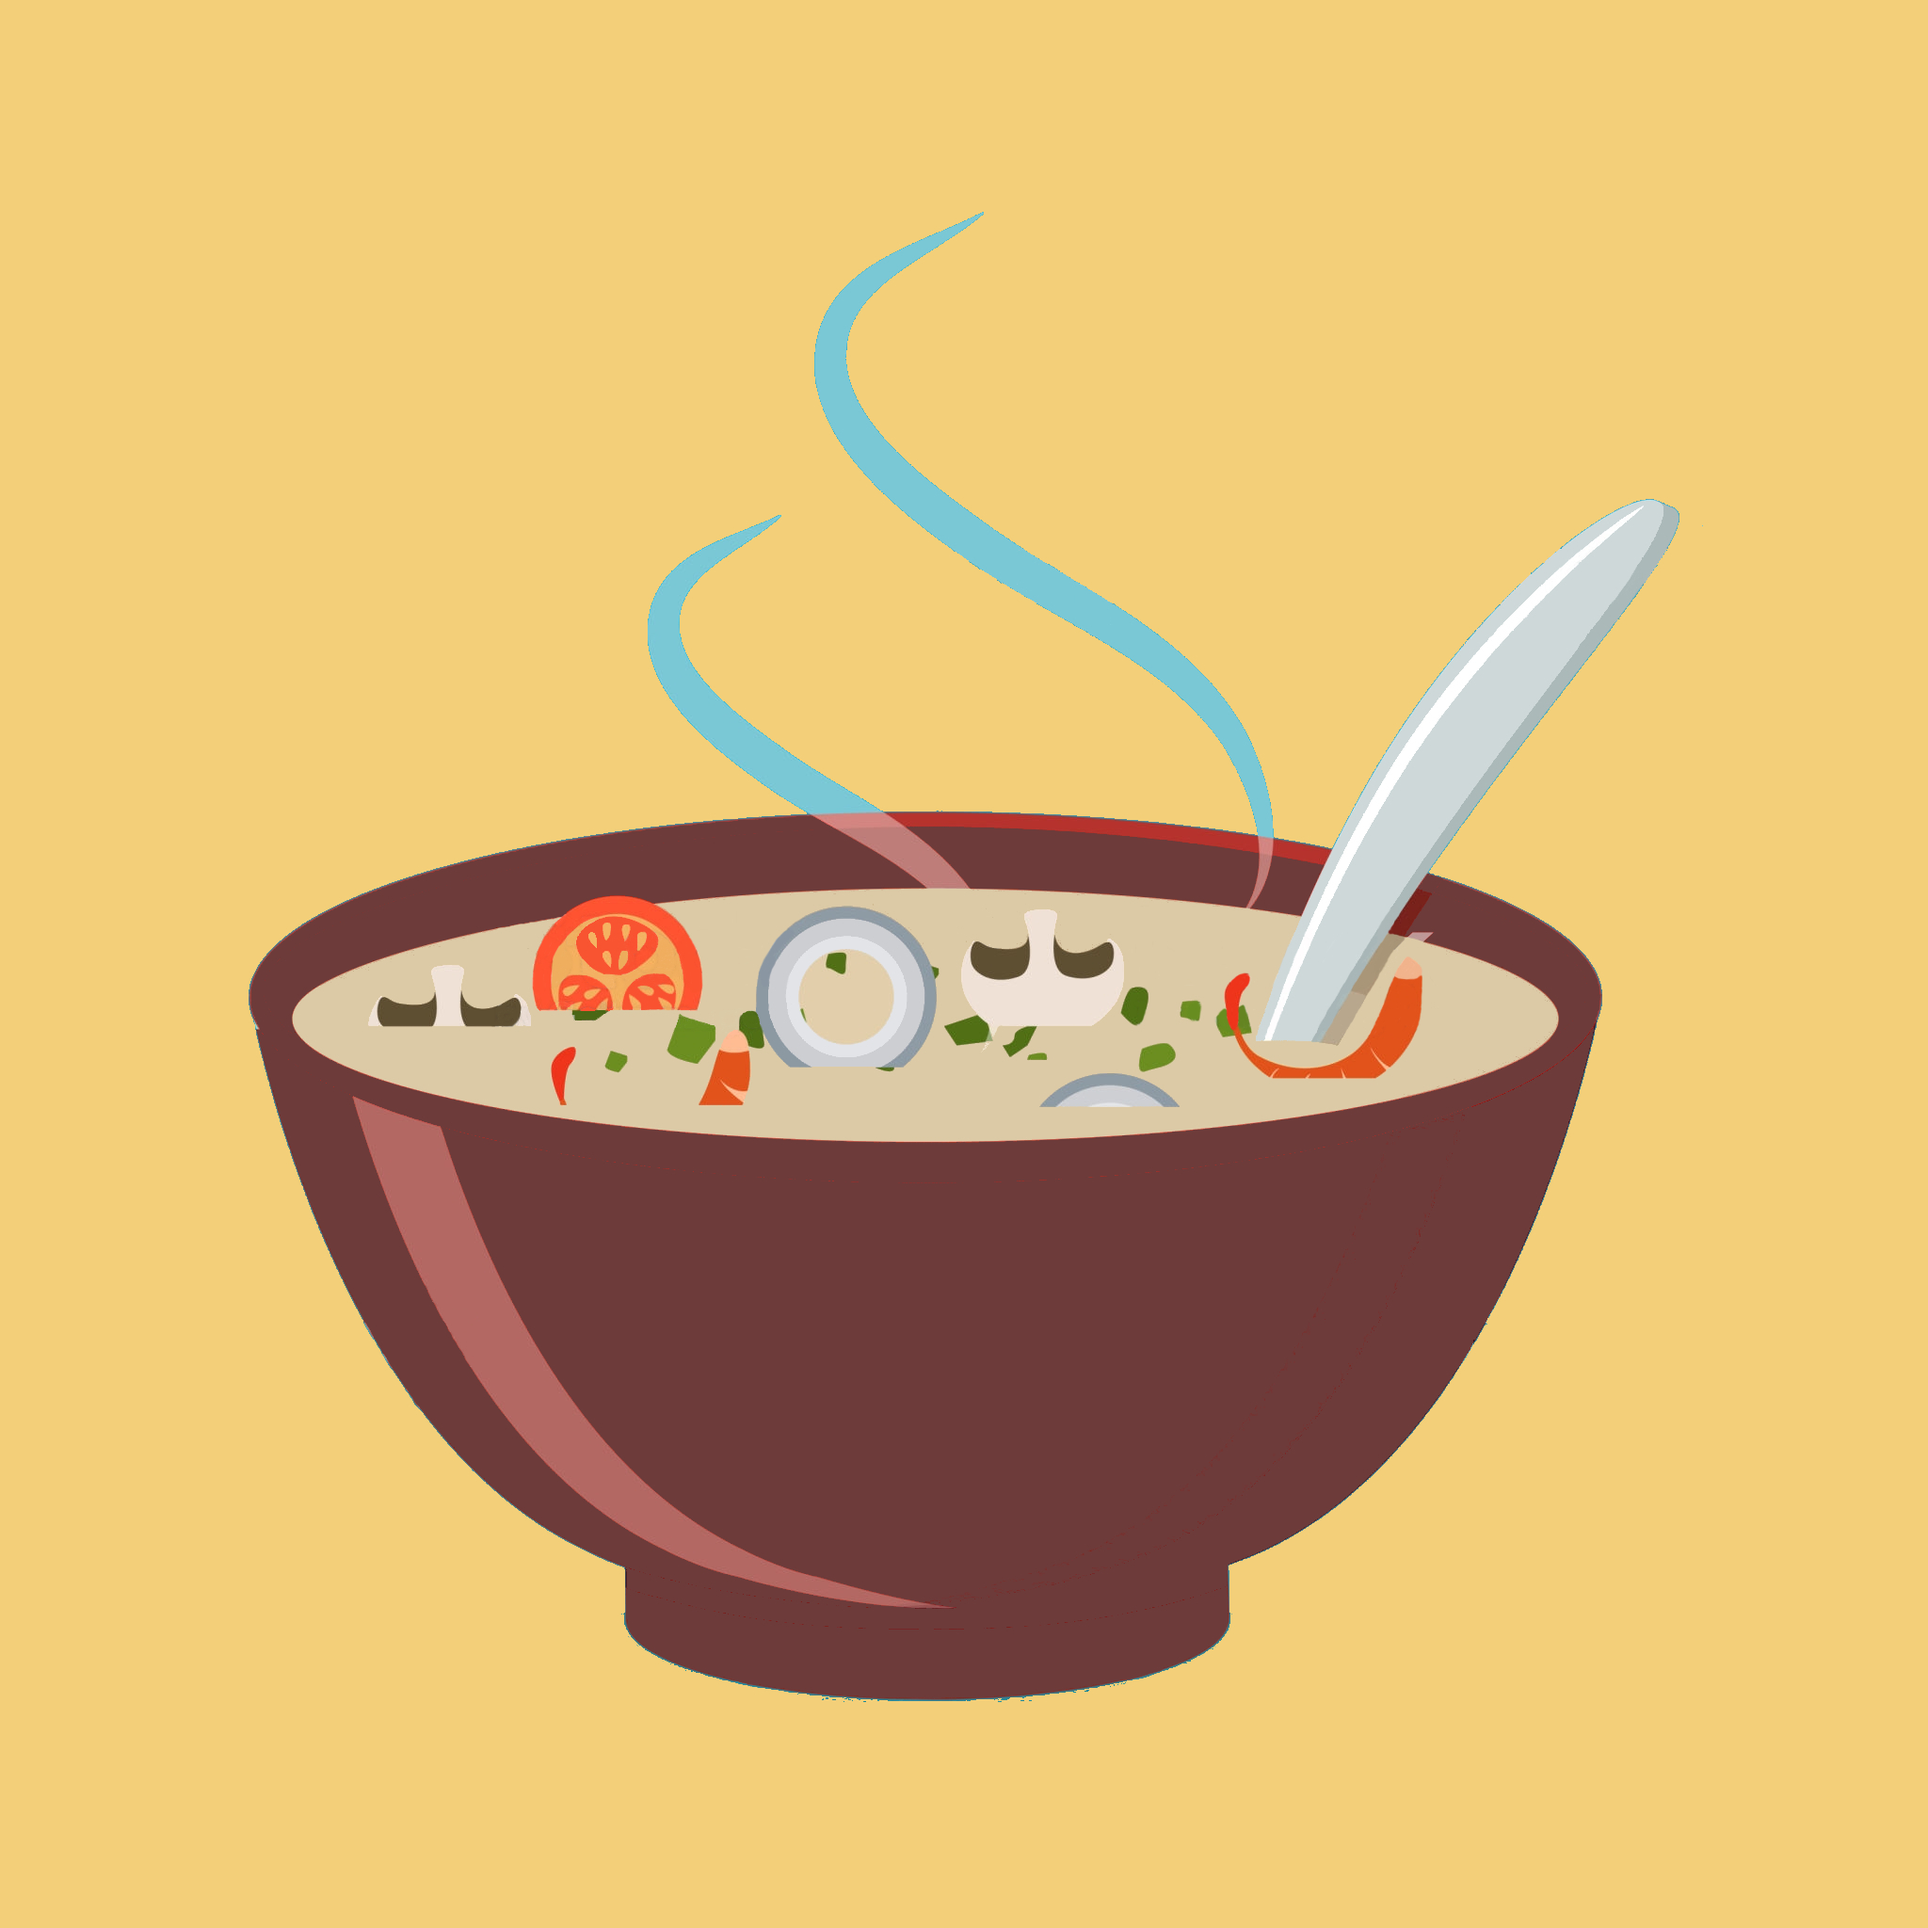
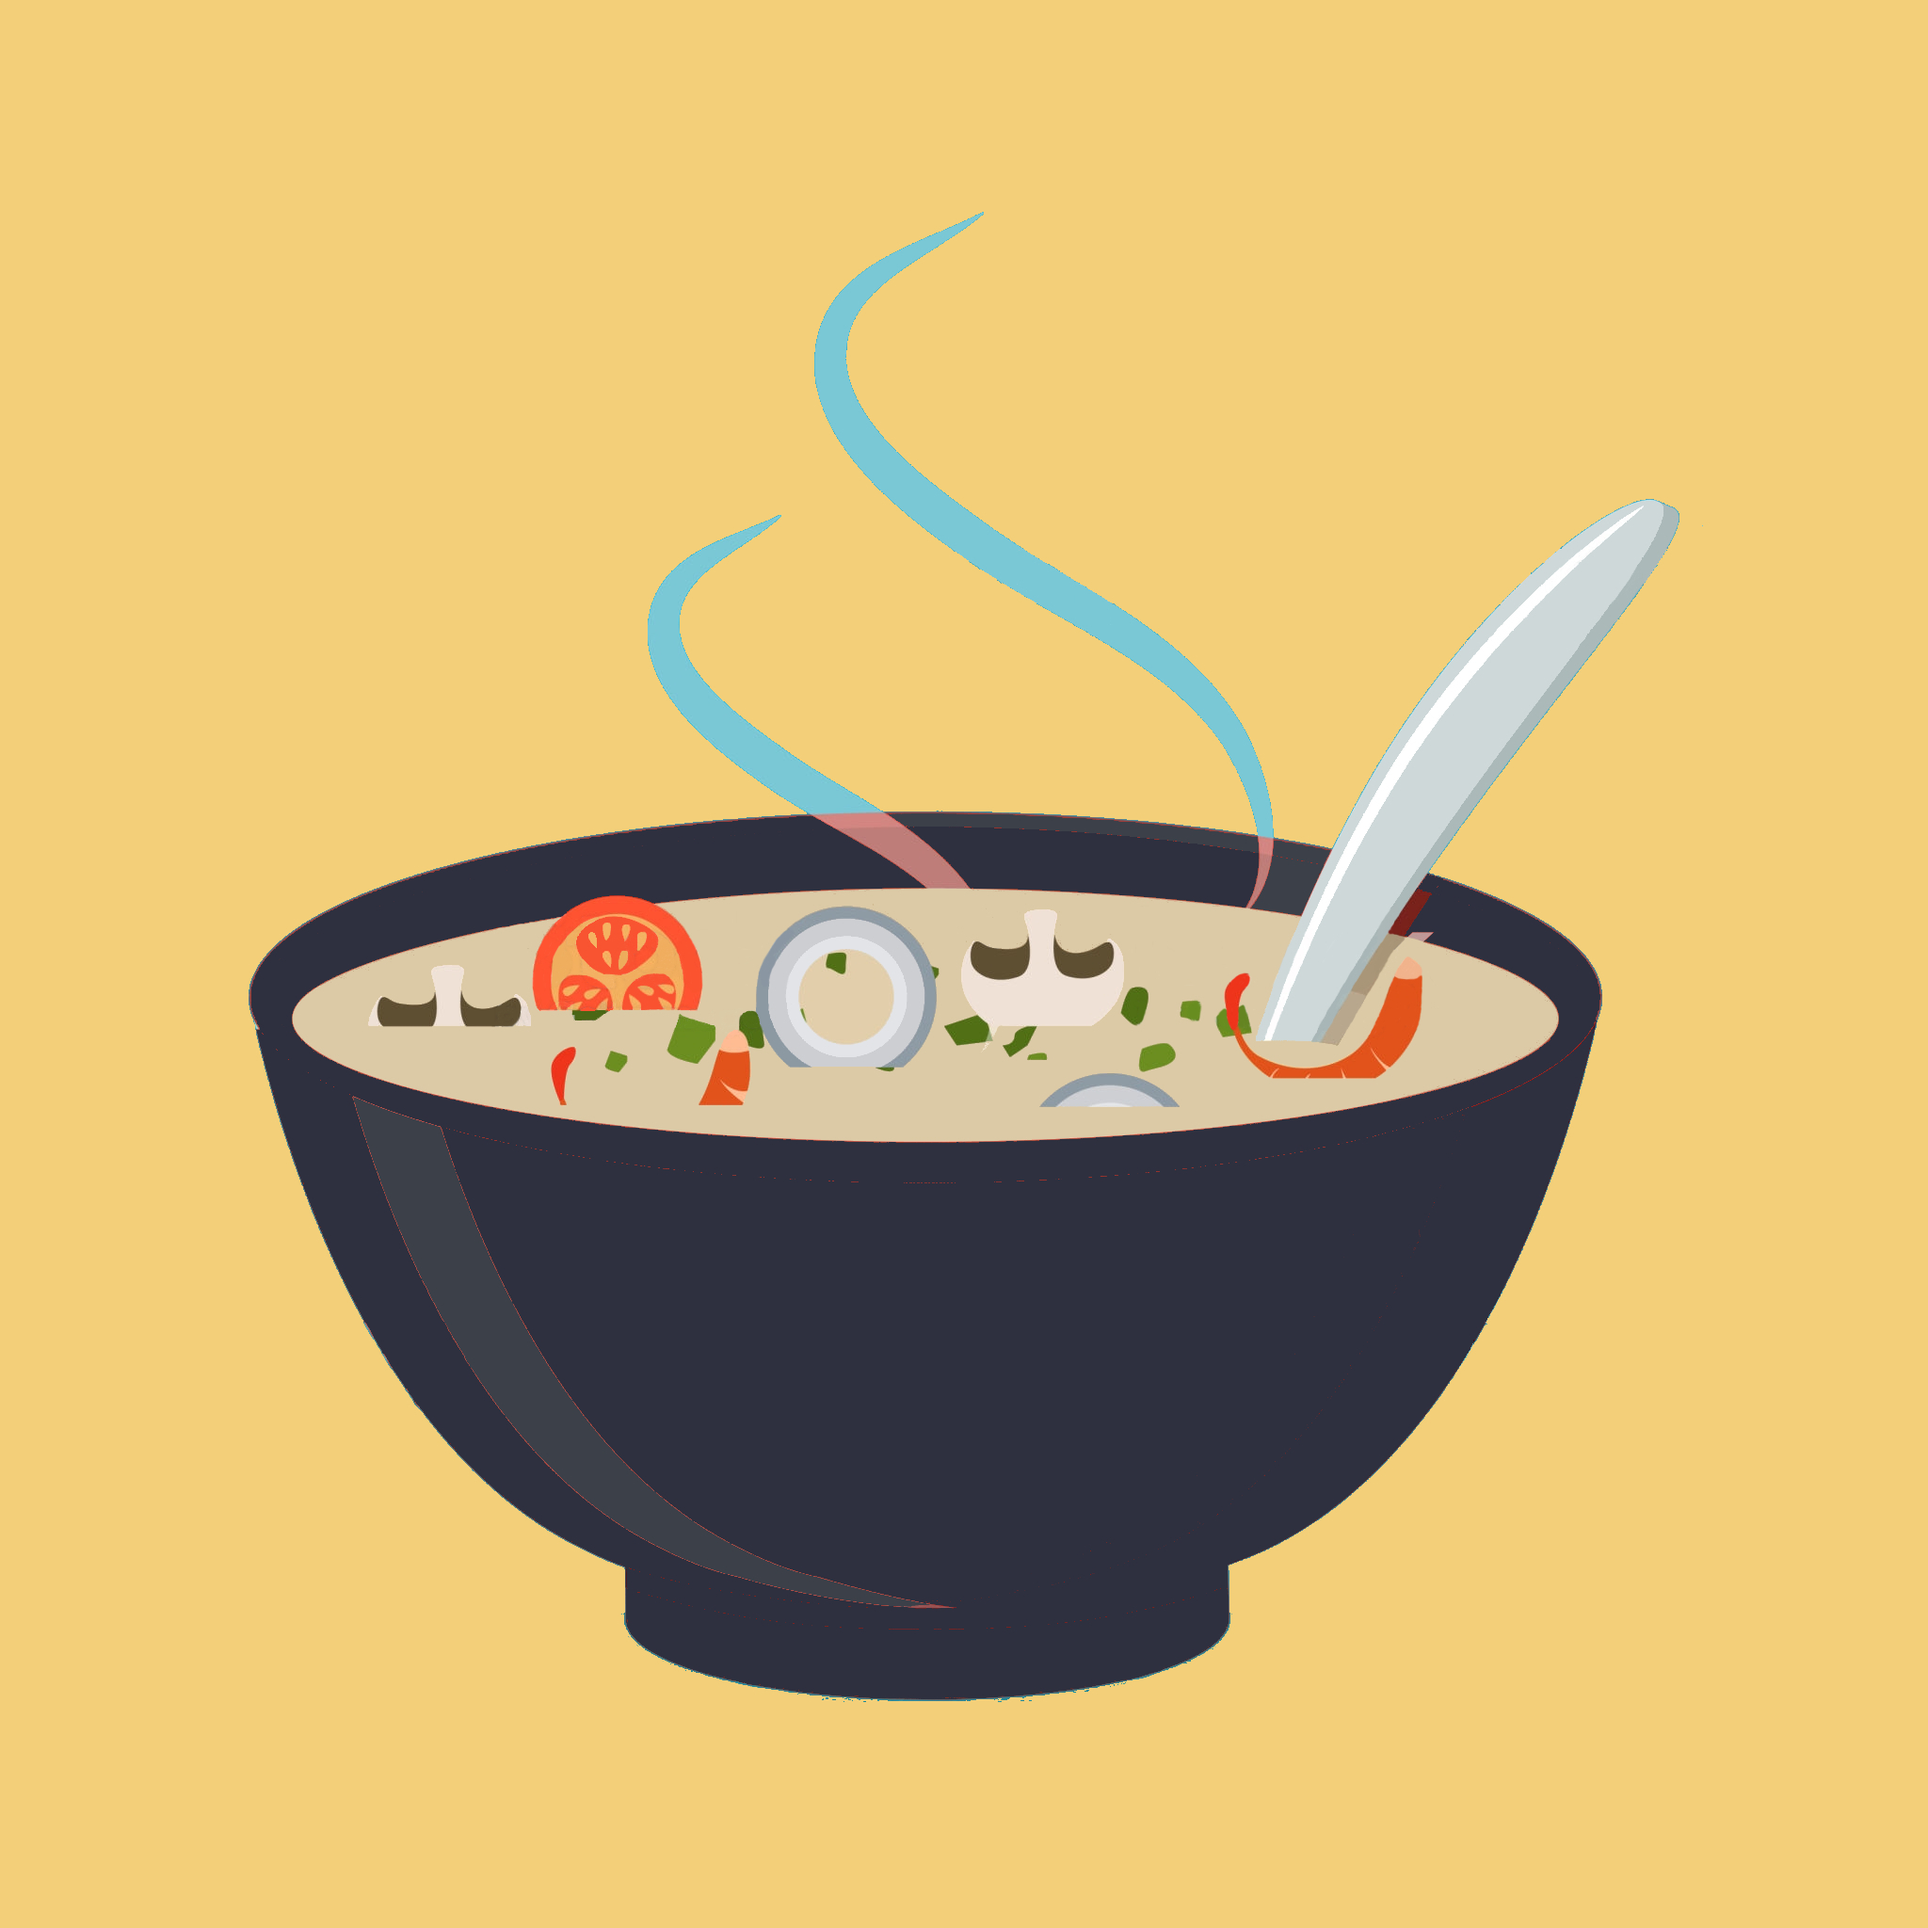
change recipe book view style

Changed region(s): [[0.125, 0.4062, 0.8438, 0.9062]]

diff --git a/src/views/recipeBook/RecipesList.js b/src/views/recipeBook/RecipesList.js
@@ -1,6 +1,8 @@
 import React from "react";
 import SimpleBar from "simplebar-react";
 import { Row, Col, Image, Spinner } from "react-bootstrap";
+import { FontAwesomeIcon } from "@fortawesome/react-fontawesome";
+import { faUser, faClock } from "@fortawesome/free-regular-svg-icons";
 import { useSelector } from "react-redux";
 import { createDate } from "../../util/Util";
 import TimeAgo from "timeago-react";
@@ -15,7 +17,7 @@ const RecipesList = () => {
   timeago.register("fr", fr);
   return loadingRecipes ? (
     <div className="recipesList-loading-area">
-      <Spinner animation="border" role="status" />
+      <Spinner animation="border" role="status" variant="light" />
     </div>
   ) : (
     <div className="recipesList-main-area">
@@ -25,21 +27,7 @@ const RecipesList = () => {
         <SimpleBar>
           {recipesRetrieved.map((retrieveRecipe, index) => (
             <div className="recipesList-item" key={index}>
-              <Row className="mb-3" />
               <Row>
-                <Col xs={8} />
-                <Col xs={3}>
-                  <div>
-                    <TimeAgo
-                      datetime={createDate(retrieveRecipe.date)}
-                      locale="fr"
-                    />
-                  </div>
-                </Col>
-                <Col xs={1} />
-              </Row>
-              <Row>
-                <Col xs={1} />
                 <Col xs={3}>
                   <Image
                     className="recipesList-item-picture"
@@ -51,29 +39,34 @@ const RecipesList = () => {
                     thumbnail
                   />
                 </Col>
-                <Col xs={7}>
-                  <div style={{ height: 50 }} />
+                <Col xs={9}>
+                  <Row>
+                    <Col xs={8} />
+                    <Col xs={4}>
+                      <div>
+                        <TimeAgo
+                          className="recipesList-item-timeago"
+                          datetime={createDate(retrieveRecipe.date)}
+                          locale="fr"
+                        />
+                      </div>
+                    </Col>
+                  </Row>
                   <div className="recipesList-item-title">
                     {retrieveRecipe.title}
                   </div>
-                </Col>
-                <Col xs={1} />
-              </Row>
-              <Row className="mb-3" />
-              <Row>
-                <Col xs={1} />
-                <Col xs={11}>
+                  <div style={{ height: 10 }} />
                   <div className="recipesList-item-author">
-                    par: typol jakis
+                    <div className="recipesList-item-icon">
+                      <FontAwesomeIcon icon={faUser} />
+                    </div>
+                    <div>{retrieveRecipe.author.name}</div>
                   </div>
-                </Col>
-              </Row>
-              <Row className="mb-3" />
-              <Row>
-                <Col xs={1} />
-                <Col xs={11}>
                   <div className="recipesList-item-time">
-                    temps: iles tam minut
+                    <div className="recipesList-item-icon">
+                      <FontAwesomeIcon icon={faClock} />
+                    </div>
+                    <div>{retrieveRecipe.cookTime} min.</div>
                   </div>
                 </Col>
               </Row>

diff --git a/src/views/recipeBook/recipeBook.css b/src/views/recipeBook/recipeBook.css
@@ -8,19 +8,19 @@
 }
 .recipebook-first-section {
   height: 100vh;
-  width: 60vw;
+  width: 50vw;
   border-radius: 5px;
   border: 1px #6e3b3b solid;
 }
 .recipebook-list {
   height: 100vh;
   border-radius: 5px;
-  background-color: #be6a15;
+  background-color: #2e303f;
   border: 1px #6e3b3b solid;
 }
 .recipebook-second-section {
   height: 100vh;
-  width: 40vw;
+  width: 50vw;
 }
 .recipebook-soup {
   width: 30vw;
@@ -30,6 +30,7 @@
   justify-content: flex-start;
   align-items: center;
   min-width: 10vw;
+  background-color: #2e303f;
 }
 .recipebook-knob-button:hover > .recipe-button-icon {
   transform: rotate(25deg);
@@ -44,10 +45,11 @@
   justify-content: flex-start;
   align-items: center;
   min-width: 10vw;
+  background-color: #2e303f;
 }
 .recipe-button-icon {
-  width: 2vw;
-  height: 2vh;
+  width: 1.8vw;
+  height: 1.8vh;
   padding: 20px;
   margin-right: 10px;
   border-radius: 50%;
@@ -58,7 +60,7 @@
   transition: 0.6s ease;
 }
 .recipe-button-text {
-  font-size: 1vw;
+  font-size: 0.8vw;
   font-family: "OpenSans-Regular";
   white-space: nowrap;
 }
@@ -77,32 +79,50 @@
   height: 70vh;
 }
 .recipesList-item {
-  background-color: #dedfa3;
-  border: 1px #6d3b3a solid;
-  border-radius: 5px;
-  padding: 1%;
-  height: 35vh;
-  width: 45vw;
+  background-color: #3c4049;
+  border-radius: 10px;
   overflow: hidden;
+  transition: 0.5s ease;
+}
+.recipesList-item:hover {
+  transform: scale(0.985);
+  cursor: pointer;
 }
 .recipesList-item-title {
   font-family: "OpenSans-SemiBold";
-  font-size: 1vw;
+  font-size: 1.2vw;
   text-align: left;
-  color: #343a40;
+  color: #ceced6;
 }
 .recipesList-item-picture {
-  width: 8vw;
+  width: 25vw;
   background-size: cover;
   background-repeat: no-repeat;
   background-position: center;
   border: 1px #be6a15 solid;
+  border-radius: 10px;
 }
 .recipesList-item-author {
+  display: flex;
+  justify-content: flex-start;
   font-family: "OpenSans-Regular";
   font-size: 1vw;
+  color: #ceced6;
 }
 .recipesList-item-time {
+  display: flex;
+  justify-content: flex-start;
   font-family: "OpenSans-Regular";
   font-size: 1vw;
+  color: #ceced6;
+}
+.recipesList-item-timeago {
+  font-family: "OpenSans-Regular";
+  font-size: 0.9vw;
+  color: #edc23c;
+}
+.recipesList-item-icon {
+  margin-right: 10px;
+  color: #ee6670;
+  width: 1vw;
 }

diff --git a/src/views/recipeBook/RecipeBook.js b/src/views/recipeBook/RecipeBook.js
@@ -11,8 +11,8 @@ const RecipeBook = ({ match: { path, url, isExact } }) => {
       <Navbar path={path} url={url} isExact={isExact} />
       <div className="recipebook-first-section">
         <Row>
-          <Col xs={2} />
-          <Col xs={10}>
+          <Col xs={3} />
+          <Col xs={9}>
             <div className="recipebook-list">
               <RecipesList />
             </div>

diff --git a/src/views/recipeBook/makeRecipeButton.js b/src/views/recipeBook/makeRecipeButton.js
@@ -27,8 +27,8 @@ const MakeRecipeButton = () => {
   return buttonItems.map(buttonItem => (
     <div key={buttonItem.id}>
       <Row>
-        <Col xs={1} />
-        <Col xs={11}>
+        <Col xs={2} />
+        <Col xs={10}>
           <Button
             onClick={() =>
               toggleActiveClass(buttonItem.id, buttonItem.category)

diff --git a/src/redux/retrieveRecipe/query/retrieveRecipeQuery.js b/src/redux/retrieveRecipe/query/retrieveRecipeQuery.js
@@ -7,6 +7,7 @@ export const retrieveRecipeQuery = (category, email) => {
                     picture
                     date
                     category
+                    cookTime
                     author {
                         name
                     }
